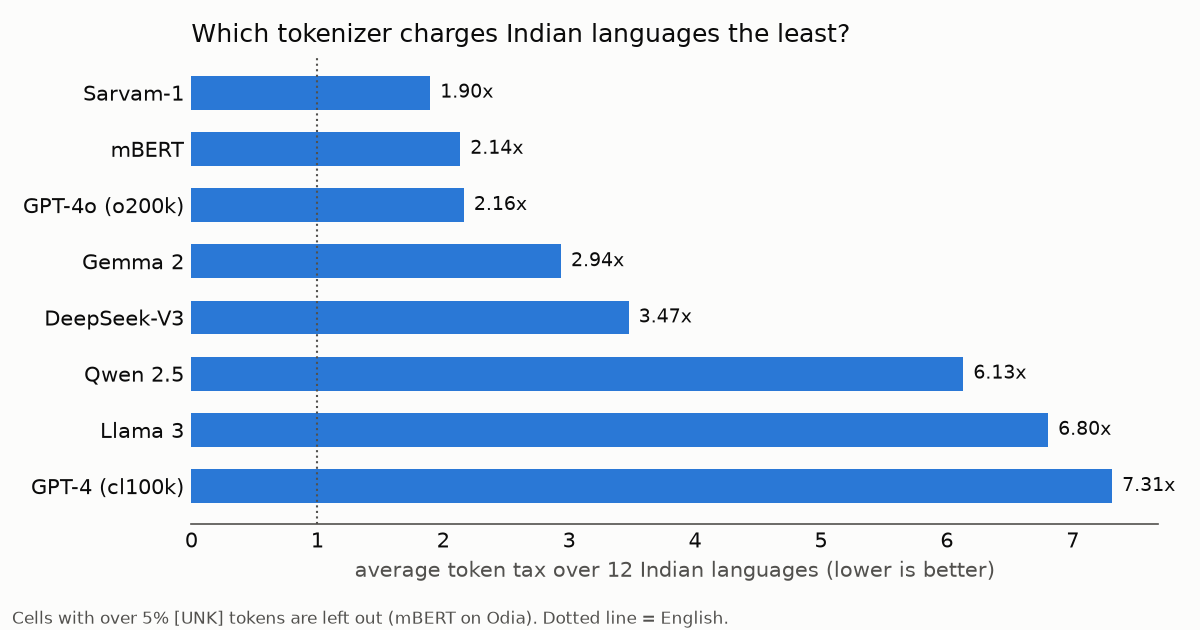
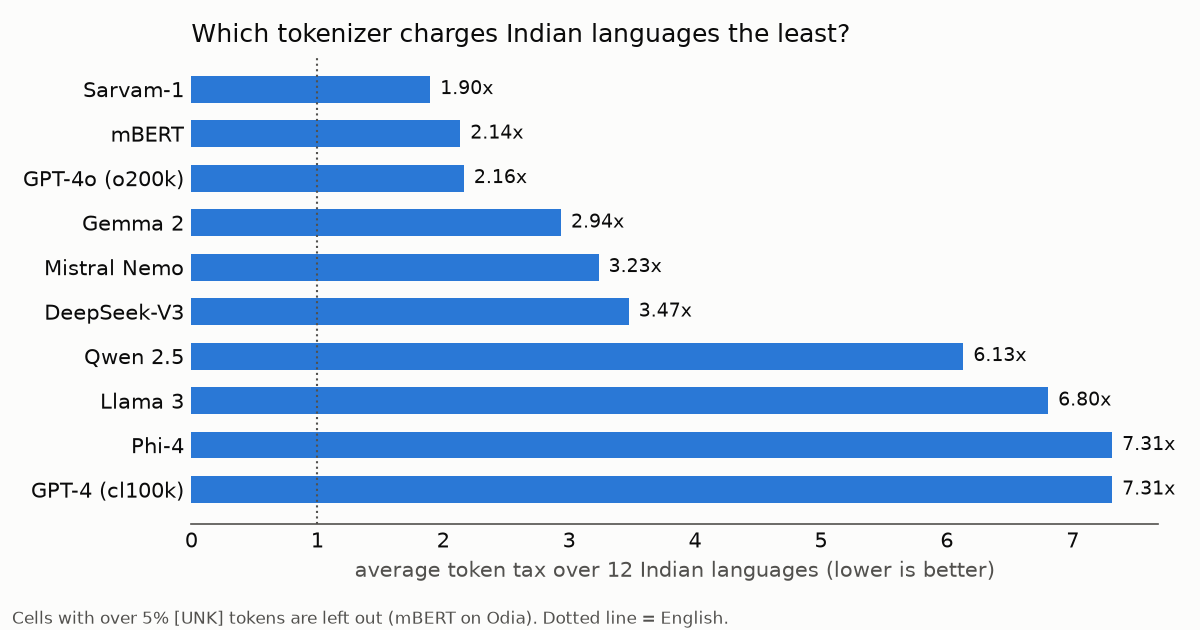
Benchmark Mistral Nemo and Phi-4 tokenizers

diff --git a/docs/index.html b/docs/index.html
@@ -4,7 +4,7 @@
 <meta charset="utf-8">
 <meta name="viewport" content="width=device-width, initial-scale=1">
 <title>tokentax · the token tax on Indian languages</title>
-<meta name="description" content="One sentence, drawn one dot per token: how many more tokens Hindi, Tamil, Odia and 12 other languages cost than English, across 8 LLM tokenizers.">
+<meta name="description" content="One sentence, drawn one dot per token: how many more tokens Hindi, Tamil, Odia and 12 other languages cost than English, across 10 LLM tokenizers.">
 <meta name="theme-color" content="#0e1130">
 <link rel="preconnect" href="https://fonts.googleapis.com">
 <link rel="preconnect" href="https://fonts.gstatic.com" crossorigin>
@@ -451,7 +451,7 @@ function renderTable() {
     sortCol = b.dataset.col; renderTable();
     $(`#grid thead button[data-col="${CSS.escape(sortCol)}"]`).focus();
   });
-  const words = { tax: ["1× English", "12× English"], sentences_in_128k: ["fewer sentences fit", "more fit"], chars_per_token: ["fewer characters per token", "more"] }[metric];
+  const words = { tax: [`${lo.toFixed(1)}× English`, `${hi.toFixed(1)}× English`], sentences_in_128k: ["fewer sentences fit", "more fit"], chars_per_token: ["fewer characters per token", "more"] }[metric];
   $("#scale").innerHTML = `<span>${words[0]}</span>` + [0, 3, 6, 9, 12].map(i => `<i style="background:${invert ? BLUES[12 - i] : BLUES[i]}"></i>`).join("") + `<span>${words[1]}</span><span style="margin-left:18px"><i class="lostkey"></i></span><span>text lost to [UNK]</span>`;
 }
 document.querySelectorAll("[data-metric]").forEach(b => b.onclick = () => {

diff --git a/tokentax/tokenizers.py b/tokentax/tokenizers.py
@@ -12,6 +12,8 @@ TOKENIZERS = {
     "Gemma 2": ("hf", "unsloth/gemma-2-2b"),
     "Qwen 2.5": ("hf", "Qwen/Qwen2.5-7B"),
     "DeepSeek-V3": ("hf", "deepseek-ai/DeepSeek-V3"),
+    "Mistral Nemo": ("hf", "mistralai/Mistral-Nemo-Base-2407"),
+    "Phi-4": ("hf", "microsoft/phi-4"),
     "Sarvam-1": ("hf", "sarvamai/sarvam-1"),
     "mBERT": ("hf", "bert-base-multilingual-cased"),
 }

diff --git a/README.md b/README.md
@@ -1,6 +1,6 @@
 # tokentax
 
-**The same sentence costs up to 12× more tokens in an Indian language than in English.** tokentax measures this "token tax" for 15 languages across 8 real LLM tokenizers. It uses FLORES-200, where every sentence is a human translation of the same English text.
+**The same content can take nearly 13× as many tokens in an Indian language as in English.** tokentax measures this "token tax" for 15 languages across 10 real LLM tokenizers. It uses FLORES-200, where every sentence is a human translation of the same English text.
 
 More tokens means a bigger API bill, slower generation and a smaller usable context window, for the same meaning.
 
@@ -16,15 +16,15 @@ All numbers come from [`results/results.csv`](results/results.csv) (FLORES-200 `
 
 1. **The GPT-4 → GPT-4o tokenizer change was a big price cut for India.** Hindi went from 4.76× English (cl100k) to 1.57× (o200k). Tamil went from 7.64× to 1.98×. In a 128k context, GPT-4's tokenizer fits 623 Tamil sentences; GPT-4o's fits 2,434.
 2. **Llama 3 helped Hindi and no other Indian language.** Llama 3 took GPT-4's vocabulary and added 28k tokens. Hindi dropped from 4.76× to 2.52× and Marathi from 5.06× to 2.80×, since both use the same Devanagari script. Tamil (7.65×), Telugu (8.29×) and Kannada (8.86×) did not change at all.
-3. **Odia is the most expensive language almost everywhere.** It costs 12.4× on GPT-4, 12.2× on Llama 3 and 9.7× on Qwen 2.5. Only Sarvam-1 (1.46×) prices it like the other Indian languages.
+3. **Odia is the most expensive language almost everywhere.** It costs 12.9× on Mistral Nemo, 12.4× on Phi-4 and GPT-4, 12.2× on Llama 3 and 9.7× on Qwen 2.5. Only Sarvam-1 (1.46×) prices it like the other Indian languages.
 4. **An Indic-trained tokenizer wins on its own languages and loses everywhere else.** Sarvam-1 averages 1.24× on the 10 Indian languages it was built for (never above 1.47×). It charges 7.39× on Urdu and 2.92× on Assamese (neither is in its supported list), 3.82× on Chinese, and its English also takes 17% more tokens than GPT-4o's. A low *tax* alone does not mean a cheap tokenizer.
-5. **Bigger vocabulary ≠ fairer.** Across tokenizers, vocabulary size and average Indic tax have a Spearman correlation of 0.07. What matters is which languages the vocabulary was trained on, not how big it is.
+5. **Bigger vocabulary ≠ fairer.** Across tokenizers, vocabulary size and average Indic tax have a Spearman correlation of −0.15. What matters is which languages the vocabulary was trained on, not how big it is.
 6. **Romanized Hindi costs about 2× on every tokenizer (1.88–2.30).** For old tokenizers this is cheaper than Devanagari (GPT-4: 2.13× vs 4.76×). For GPT-4o and Sarvam-1 it is more expensive than the native script. Typing Hinglish only saves money on tokenizers that never learned Devanagari.
 7. **A "cheap" result can be lost text.** mBERT scores Odia at 0.78×, cheaper than English, because 86% of its Odia tokens are `[UNK]`: the text was thrown away. tokentax tracks the `[UNK]` rate for every cell and flags this (dashed cells, `*` in the chart).
 
 ![average tax per tokenizer](results/by_tokenizer.png)
 
-Every tax has a 95% bootstrap interval (resampling sentences, 1000 draws); the widest interval in the whole table is ±0.15. The differences above are far bigger than the noise.
+Every tax has a 95% bootstrap interval (resampling sentences, 1000 draws); the widest interval in the whole table spans 0.34×. The differences above are far bigger than the noise.
 
 ## Try it on your own text
 
@@ -41,6 +41,8 @@ Llama 3              9     5  1.80x
 Gemma 2              6     4  1.50x
 Qwen 2.5            15     5  3.00x
 DeepSeek-V3         10     5  2.00x
+Mistral Nemo         6     5  1.20x
+Phi-4               15     5  3.00x
 Sarvam-1             5     6  0.83x
 mBERT                6     4  1.50x
 ```
